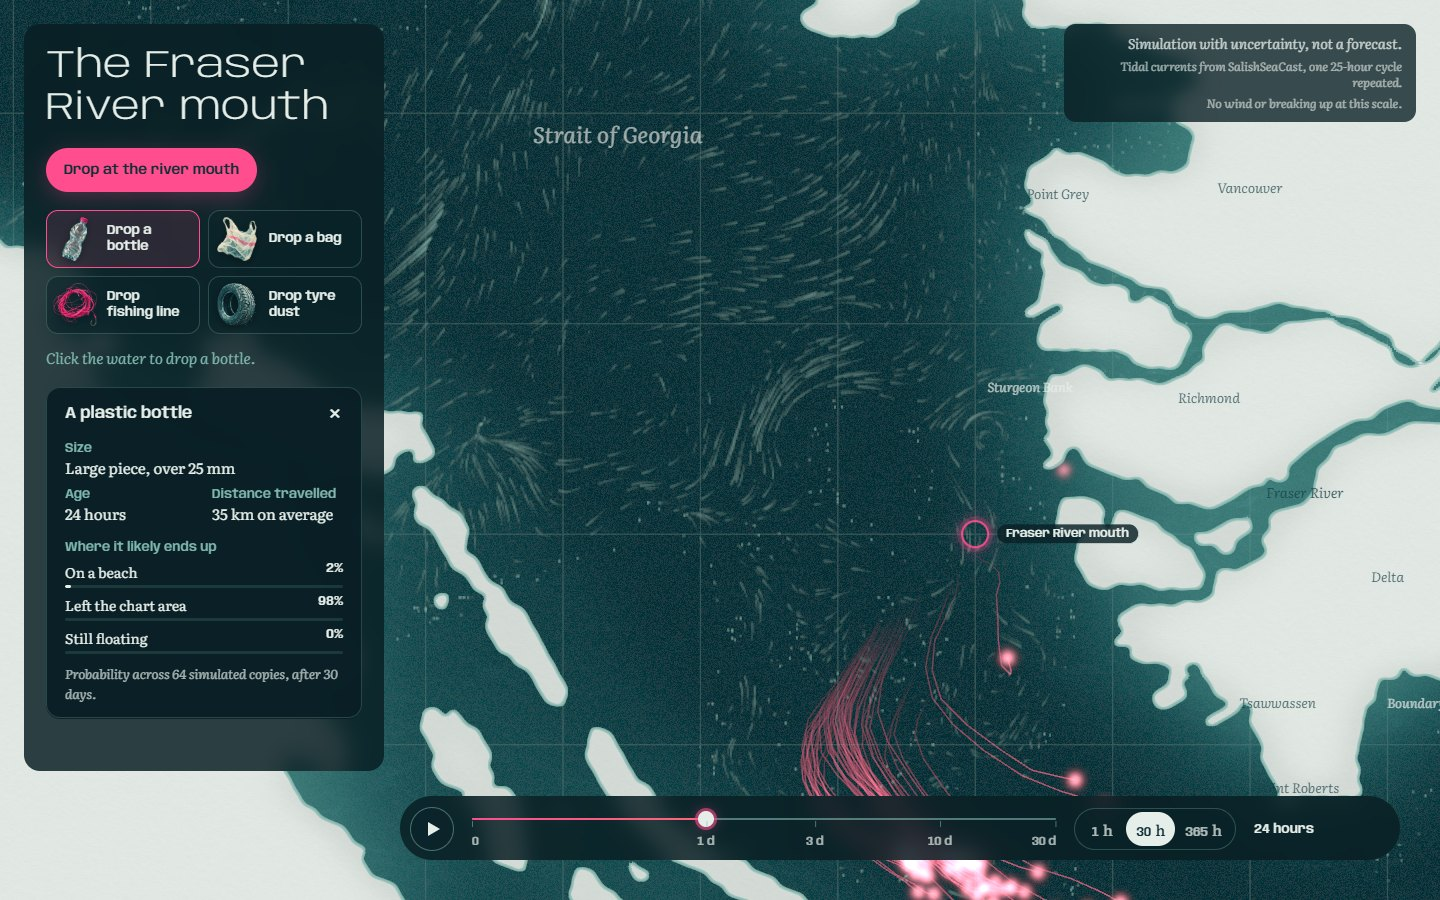
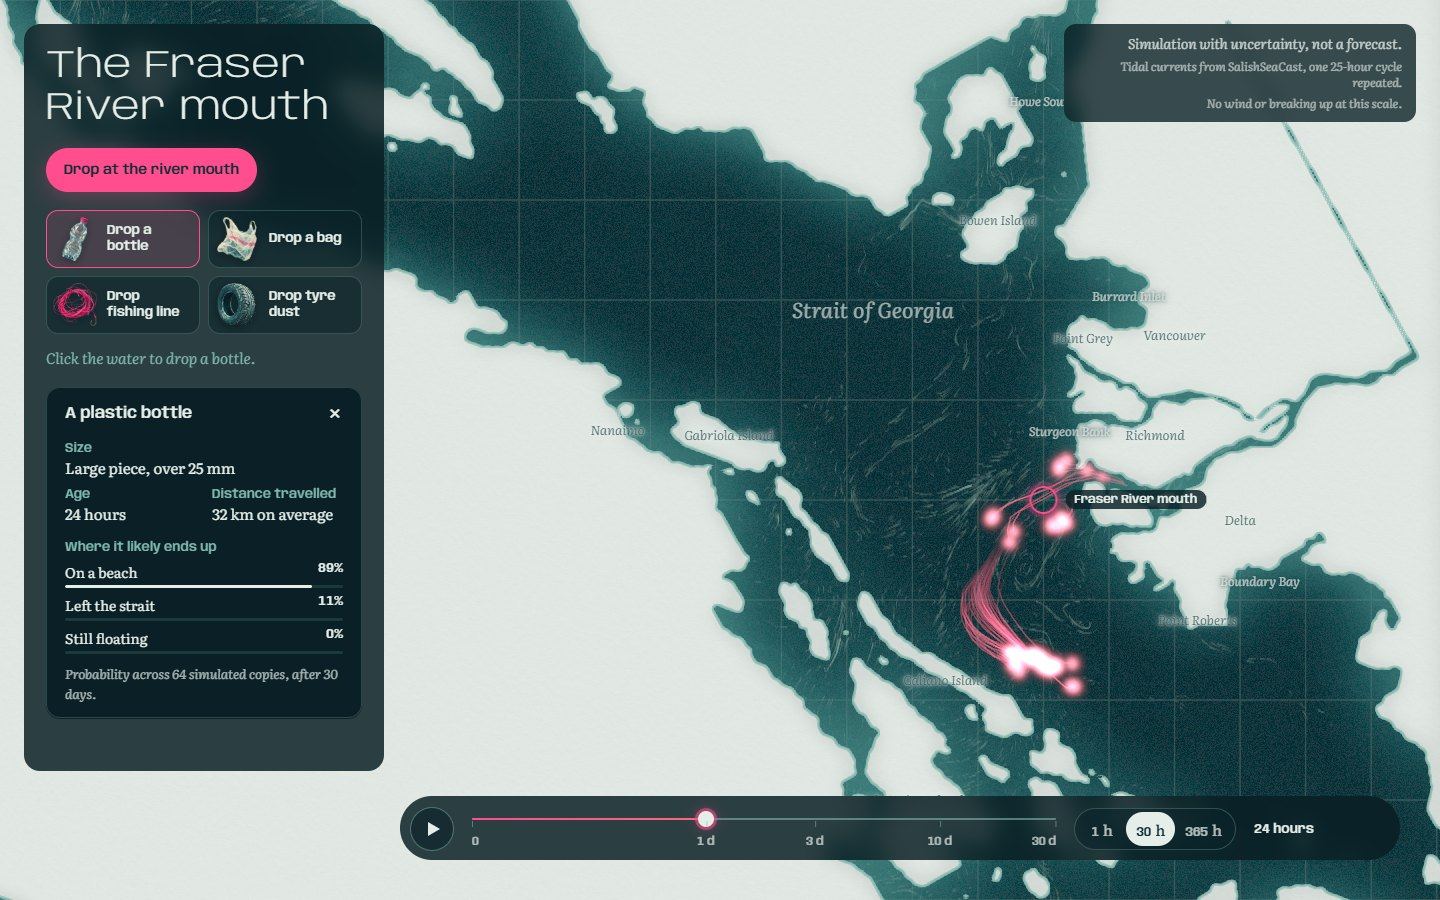
feat(globe): Salish chart on the enlarged extent (framing, "Left the strait", southern place names, label collisions)
- extent read from the tile; default frame on the Fraser mouth and central Strait of Georgia,
  pan and zoom over the whole Juan de Fuca to Comox chart
- fate label back to "Left the strait"; Haro Strait, Juan de Fuca Strait, Boundary Pass,
  Victoria, San Juan Islands, Saturna and Salt Spring checked against land.png
- labels that would collide are hidden per zoom; chart halos so names read across the coast
- more streamline seeds and a larger trail texture for the bigger chart

diff --git a/src/globe/salish.js b/src/globe/salish.js
@@ -44,7 +44,7 @@ export const SALISH_PROFILE = {
   speedGroup: 'Simulated hours per second',
   formatAge: formatHours,
   zero: 'Hour 0',
-  fates: [['coast', 'On a beach'], ['left', 'Left the chart area'], ['floating', 'Still floating']],
+  fates: [['coast', 'On a beach'], ['left', 'Left the strait'], ['floating', 'Still floating']],
   when: (t) => (t >= MAX_H ? 'after 30 days' : `after ${formatHours(t).toLowerCase()} (still computing)`),
   primary: 'Drop at the river mouth',
   notes: ['Tidal currents from SalishSeaCast, one 25-hour cycle repeated.', 'No wind or breaking up at this scale.'],
@@ -68,6 +68,13 @@ const PLACES = [
   { name: 'Gabriola Island', lon: -123.78, lat: 49.165, kind: 'land' },
   { name: 'Galiano Island', lon: -123.45, lat: 48.92, kind: 'land' },
   { name: 'Nanaimo', lon: -123.95, lat: 49.17, kind: 'land' },
+  { name: 'Haro Strait', lon: -123.20, lat: 48.57, kind: 'water' },
+  { name: 'Juan de Fuca Strait', lon: -123.70, lat: 48.30, kind: 'sea' },
+  { name: 'Boundary Pass', lon: -123.08, lat: 48.765, kind: 'water' },
+  { name: 'Victoria', lon: -123.37, lat: 48.43, kind: 'land' },
+  { name: 'San Juan Islands', lon: -123.08, lat: 48.53, kind: 'land' },
+  { name: 'Saturna Island', lon: -123.20, lat: 48.79, kind: 'land' },
+  { name: 'Salt Spring Island', lon: -123.50, lat: 48.80, kind: 'land' },
 ];
 
 function loadImage(url) {
@@ -238,7 +245,7 @@ export function mountSalish(el, { embedded = true } = {}) {
 
   function clampView() {
     if (!map) return;
-    view.ts = Math.min(view.cover, Math.max(view.cover / 7, view.ts));
+    view.ts = Math.min(view.cover, Math.max(view.cover / 14, view.ts));
     const hw = (size.w / 2) * view.ts, hh = (size.h / 2) * view.ts;
     const mx = Math.max(0, map.width / 2 - hw), my = Math.max(0, map.height / 2 - hh);
     view.tcx = Math.min(mx, Math.max(-mx, view.tcx));
@@ -257,11 +264,15 @@ export function mountSalish(el, { embedded = true } = {}) {
       const cover = Math.min(map.width / w, map.height / h);
       const ratio = view.ts / view.cover;
       view.cover = cover;
-      view.ts = first ? cover * (phone ? 0.62 : 0.8) : cover * ratio;
+      // First frame: the Fraser mouth and the central Strait of Georgia (about 0.9 degrees of
+      // latitude tall on desktop, 0.7 degrees of longitude wide on a phone), whatever the extent;
+      // pan and zoom then reach the whole chart.
+      const framed = phone ? (0.7 * cosC) / w : 0.9 / h;
+      view.ts = first ? Math.min(cover, framed) : cover * ratio;
       if (first) {
-        // Frame the river mouth: right of centre on desktop (the left column is the UI), above
-        // the bottom sheet on a phone.
-        const [mx, my] = toWorld(RIVER_MOUTH.lon + (phone ? 0.02 : -0.06), RIVER_MOUTH.lat + (phone ? -0.05 : 0.04));
+        // River mouth right of centre on desktop (the left column is the UI), above the bottom
+        // sheet on a phone.
+        const [mx, my] = toWorld(RIVER_MOUTH.lon + (phone ? 0.02 : -0.1), RIVER_MOUTH.lat + (phone ? -0.04 : 0.05));
         view.tcx = mx - (phone ? 0 : w * 0.12 * view.ts);
         view.tcy = my;
       }
@@ -327,8 +338,8 @@ export function mountSalish(el, { embedded = true } = {}) {
     const n = tile.nx * tile.ny * 2;
     fieldTex = fieldTextures(Array.from({ length: tile.nframes }, (_, f) => ({ ...tile, nframes: 1, data: tile.data.subarray(f * n, (f + 1) * n) })));
     lines = createStreamlines(renderer, {
-      fieldTex: fieldTex[0], reducedMotion, seeds: 7000, region: extent,
-      gain: 0.0007, dotScale: 0.0017, trailSize: [1280, 1100],
+      fieldTex: fieldTex[0], reducedMotion, seeds: 14000, region: extent,
+      gain: 0.0007, dotScale: 0.0017, trailSize: [2048, 1400],
     });
     scene = new THREE.Scene();
     map = createMap({ extent, cosC, landTex, trailTex: lines.texture, waterTex, paperTex });
@@ -368,16 +379,25 @@ export function mountSalish(el, { embedded = true } = {}) {
   }
 
   function placeLabels() {
-    for (const { e, p } of labelEls) {
-      const [x, y] = toScreen(p.lon, p.lat);
-      e.style.transform = `translate(${x.toFixed(1)}px, ${y.toFixed(1)}px) translate(-50%, -50%)`;
-    }
+    // Zoom-dependent label sizes: chart labels grow a little as you zoom in.
+    labels.style.setProperty('--salish-zoom', String(Math.min(1.5, Math.max(0.85, Math.sqrt(view.cover / view.s) * 0.9))));
+    // Labels in list order (sea and water names first); one that would touch a label already
+    // placed, or the river-mouth marker, is hidden at this zoom.
+    const kept = [];
     if (marker) {
       const [x, y] = toScreen(RIVER_MOUTH.lon, RIVER_MOUTH.lat);
       marker.style.transform = `translate(${x.toFixed(1)}px, ${y.toFixed(1)}px)`;
+      kept.push({ l: x - 18, r: x + 160, t: y - 18, b: y + 18 });
     }
-    // Zoom-dependent label sizes: chart labels grow a little as you zoom in.
-    labels.style.setProperty('--salish-zoom', String(Math.min(1.5, Math.max(0.85, Math.sqrt(view.cover / view.s) * 0.9))));
+    for (const { e, p } of labelEls) {
+      const [x, y] = toScreen(p.lon, p.lat);
+      e.style.transform = `translate(${x.toFixed(1)}px, ${y.toFixed(1)}px) translate(-50%, -50%)`;
+      const w = e.offsetWidth, h = e.offsetHeight;
+      const box = { l: x - w / 2 - 6, r: x + w / 2 + 6, t: y - h / 2 - 3, b: y + h / 2 + 3 };
+      const clash = kept.some((k) => box.l < k.r && box.r > k.l && box.t < k.b && box.b > k.t);
+      e.style.visibility = clash ? 'hidden' : '';
+      if (!clash) kept.push(box);
+    }
   }
 
   // ---- worker ----
@@ -501,7 +521,7 @@ export function mountSalish(el, { embedded = true } = {}) {
   };
   const zoomAt = (sx, sy, factor) => {
     const [wx, wy] = [view.tcx + (sx - size.w / 2) * view.ts, view.tcy - (sy - size.h / 2) * view.ts];
-    const ns = Math.min(view.cover, Math.max(view.cover / 7, view.ts * factor));
+    const ns = Math.min(view.cover, Math.max(view.cover / 14, view.ts * factor));
     view.tcx = wx - (sx - size.w / 2) * ns;
     view.tcy = wy + (sy - size.h / 2) * ns;
     view.ts = ns;

diff --git a/src/globe/globe.css b/src/globe/globe.css
@@ -620,3 +620,6 @@
 .drift-salish .salish-marker { z-index: 1; }
 .drift-salish.has-panel .globe-ui__lede { display: none; }
 .salish-label--river { color: rgba(14, 47, 54, .82); }
+/* Chart-style halos so a name reads where it straddles the coast. */
+.salish-label--land, .salish-label--river { text-shadow: 0 0 2px rgba(230, 238, 233, .95), 0 0 6px rgba(230, 238, 233, .85); }
+.salish-label--sea, .salish-label--water { text-shadow: 0 0 3px rgba(10, 41, 48, .9), 0 0 8px rgba(10, 41, 48, .7); }
